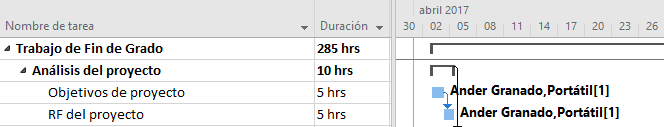
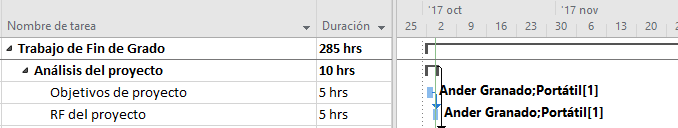
Actualiza el cronograma del proyecto

diff --git a/tex/1-Alcance/viabilidad.tex b/tex/1-Alcance/viabilidad.tex
@@ -60,7 +60,7 @@ El EDT para la Fase 2 quedaría como se muestra en las figura \ref{fig:edt2}.
 \end{figure}
 
 \subsection{Agenda del proyecto}
-El proyecto se llevará a cabo durante varios meses, comenzando en abril. Se trabajará a media jornada (4 horas) de lunes a viernes, con las siguientes excepciones. Primero, se tendrá en cuenta el calendario de festivos oficiales para aplicar algunas jornadas festivas en cuyos días no se trabajará. Esos días quedan reflejados en la tabla \ref{table:festivos-oficiales}. A esos festivos se les aplica unas excepciones, en las cuales, aun siendo festivo, se trabajará igualmente. Esos festivos en los que se trabaja están indicados en rojo.
+El proyecto se llevará a cabo durante varios meses, comenzando en abril. Se trabajará a media jornada (4 horas) de lunes a viernes, con las siguientes excepciones. Primero, se tendrá en cuenta el calendario de festivos oficiales para aplicar algunas jornadas festivas en cuyos días no se trabajará. Esos días quedan reflejados en la tabla \ref{table:festivos-oficiales}.
 
 \begin{table}[H]
 	\centering
@@ -71,15 +71,16 @@ El proyecto se llevará a cabo durante varios meses, comenzando en abril. Se tra
 		1 de Enero & Año nuevo \\
 		6 de Enero & Día de Reyes \\
 		19 de Marzo & San José \\
-		{\color{red} 2 de Abril} & {\color{red} Jueves Santo }\\
-		{\color{red} 3 de Abril} & {\color{red} Viernes Santo }\\
-		{\color{red} 6 de Abril} & {\color{red} Lunes de Pascua }\\
+		2 de Abril & Jueves Santo \\
+		3 de Abril & Viernes Santo \\
+		6 de Abril & Lunes de Pascua \\
 		28 de Abril & San Prudencio \\
 		1 de Mayo & Día del trabajo \\
-		{\color{red}25 de Julio} & {\color{red}Santiago Apóstol } \\
+		25 de Julio & Santiago Apóstol \\
 		5 de Agosto & Virgen Blanca \\
 		15 de Agosto & Asunción de la Virgen \\
 		12 de Octubre & Fiesta Nacional de España \\
+		6 de Diciembre & Día de la constitución \\
 		8 de Diciembre & Inmaculada Concepción \\
 		25 de Diciembre & Navidad \\
 		\hline
@@ -88,23 +89,7 @@ El proyecto se llevará a cabo durante varios meses, comenzando en abril. Se tra
 	\label{table:festivos-oficiales}
 \end{table}
 
-Por otra parte, existen una serie de días en los que se aplica una reducción de la jornada laboral de 4 a 2 horas (en los días considerados laborales), debido básicamente a exámenes. Estos periodos vienen indicados en la tabla \ref{table:reduccion-jornada}.
-
-\begin{table}[H]
-	\centering
-	\begin{tabular}{ |c|c|c| } 
-		\hline
-		Nombre del periodo & Fecha de inicio & Fecha de fin \\
-		\hline
-		Exámenes Convocatoria Ordinaria & 16 de mayo & 23 de mayo \\
-		Exámenes Convocatoria Extraordinaria & 27 de junio & 4 de julio \\
-		\hline
-	\end{tabular}
-	\caption{Reducciones de la jornada laboral}
-	\label{table:reduccion-jornada}
-\end{table}
-
-En base a dicho calendario, la fecha estimada de finalización del proyecto es del 24 de Julio.
+En base a dicho calendario, la fecha estimada de finalización del proyecto es del 16 de enero del 2018.
 
 \subsection{Tareas}
 El EDT completo de tareas, al que se añaden la fase inicial de objetivos del proyecto, y toda la fase final de elaboración de la memoria, presentación y la defensa quedaría de la siguiente manera.
@@ -126,7 +111,7 @@ El EDT completo de tareas, al que se añaden la fase inicial de objetivos del pr
 			\item Formación Pentesting
 			\begin{numbered}
 				\item Formación Teórica
-				\item Formación NMap
+				\item Formación Nmap
 			\end{numbered}
 			\item Formación Android
 			\begin{numbered}
@@ -166,7 +151,7 @@ El EDT completo de tareas, al que se añaden la fase inicial de objetivos del pr
 			\item Implementación de la aplicación
 			\begin{numbered}
 				\item Programación de herramientas básicas
-				\item Integración de NMap
+				\item Integración de Nmap
 				\item Programación de parser de elementos
 				\item Enlazado de datos con la GUI
 			\end{numbered}
@@ -211,8 +196,8 @@ A continuación se explica mediante una breve definición cada tarea, además de
 	{20}
 \taskframe
 	{1.1.2.2}
-	{Formación NMap}
-	{Familiarizarse con el entorno de NMap, cómo implementarlo, usarlo para obtener información y de qué formas se puede obtener información estructurada y organizada para su posterior uso}
+	{Formación Nmap}
+	{Familiarizarse con el entorno de Nmap, cómo implementarlo, usarlo para obtener información y de qué formas se puede obtener información estructurada y organizada para su posterior uso}
 	{10}
 \taskframe
 	{1.1.3.1}
@@ -286,13 +271,13 @@ A continuación se explica mediante una breve definición cada tarea, además de
 	{10}
 \taskframe
 	{2.2.2.2}
-	{Integración de NMap}
-	{Integrar el núcleo de NMap en la aplicación para poder hacer uso de toda su funcionalidad}
+	{Integración de Nmap}
+	{Integrar el núcleo de Nmap en la aplicación para poder hacer uso de toda su funcionalidad}
 	{10}
 \taskframe
 	{2.2.2.3}
 	{Programación de parser de elementos}
-	{Elaborar un puente entre NMap y la aplicación para obtener los datos de NMap y poder usarlos en la aplicación de la manera más organizada posible}
+	{Elaborar un puente entre Nmap y la aplicación para obtener los datos de Nmap y poder usarlos en la aplicación de la manera más organizada posible}
 	{20}
 \taskframe
 	{2.2.2.4}
@@ -413,7 +398,7 @@ Por otra parte, en la tabla \ref{table:software} se muestra los recursos materia
 		Ubuntu 16.04 	& 0,00 \euro							\\
 		TeX Studio 		& 0,00 \euro							\\
 		Android Studio 	& 0,00 \euro							\\
-		NMap 			& 0,00 \euro							\\
+		Nmap 			& 0,00 \euro							\\
 		Git 			& 0,00 \euro							\\
 		GitHub 			& 0,00 \euro							\\
 		\hline
